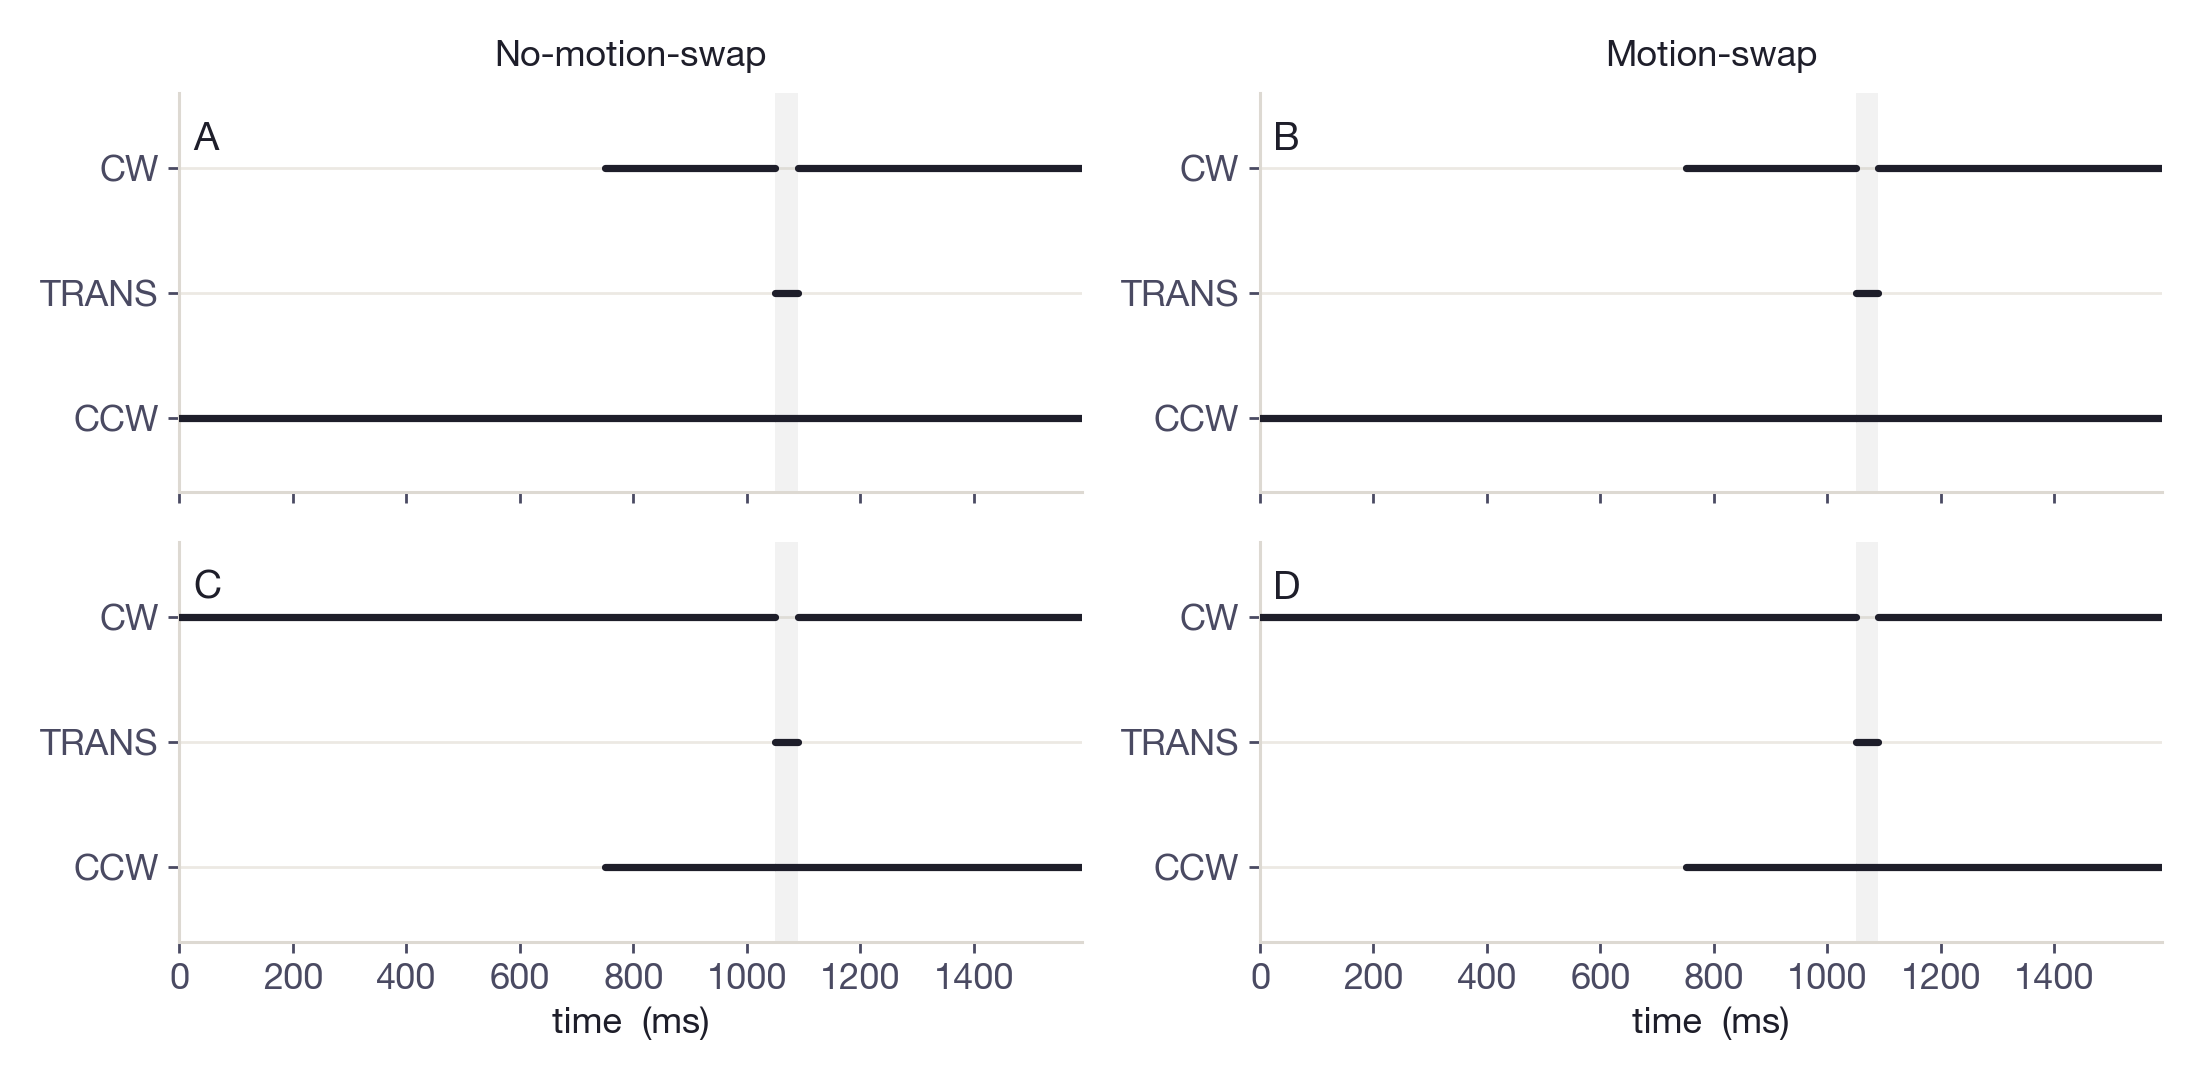
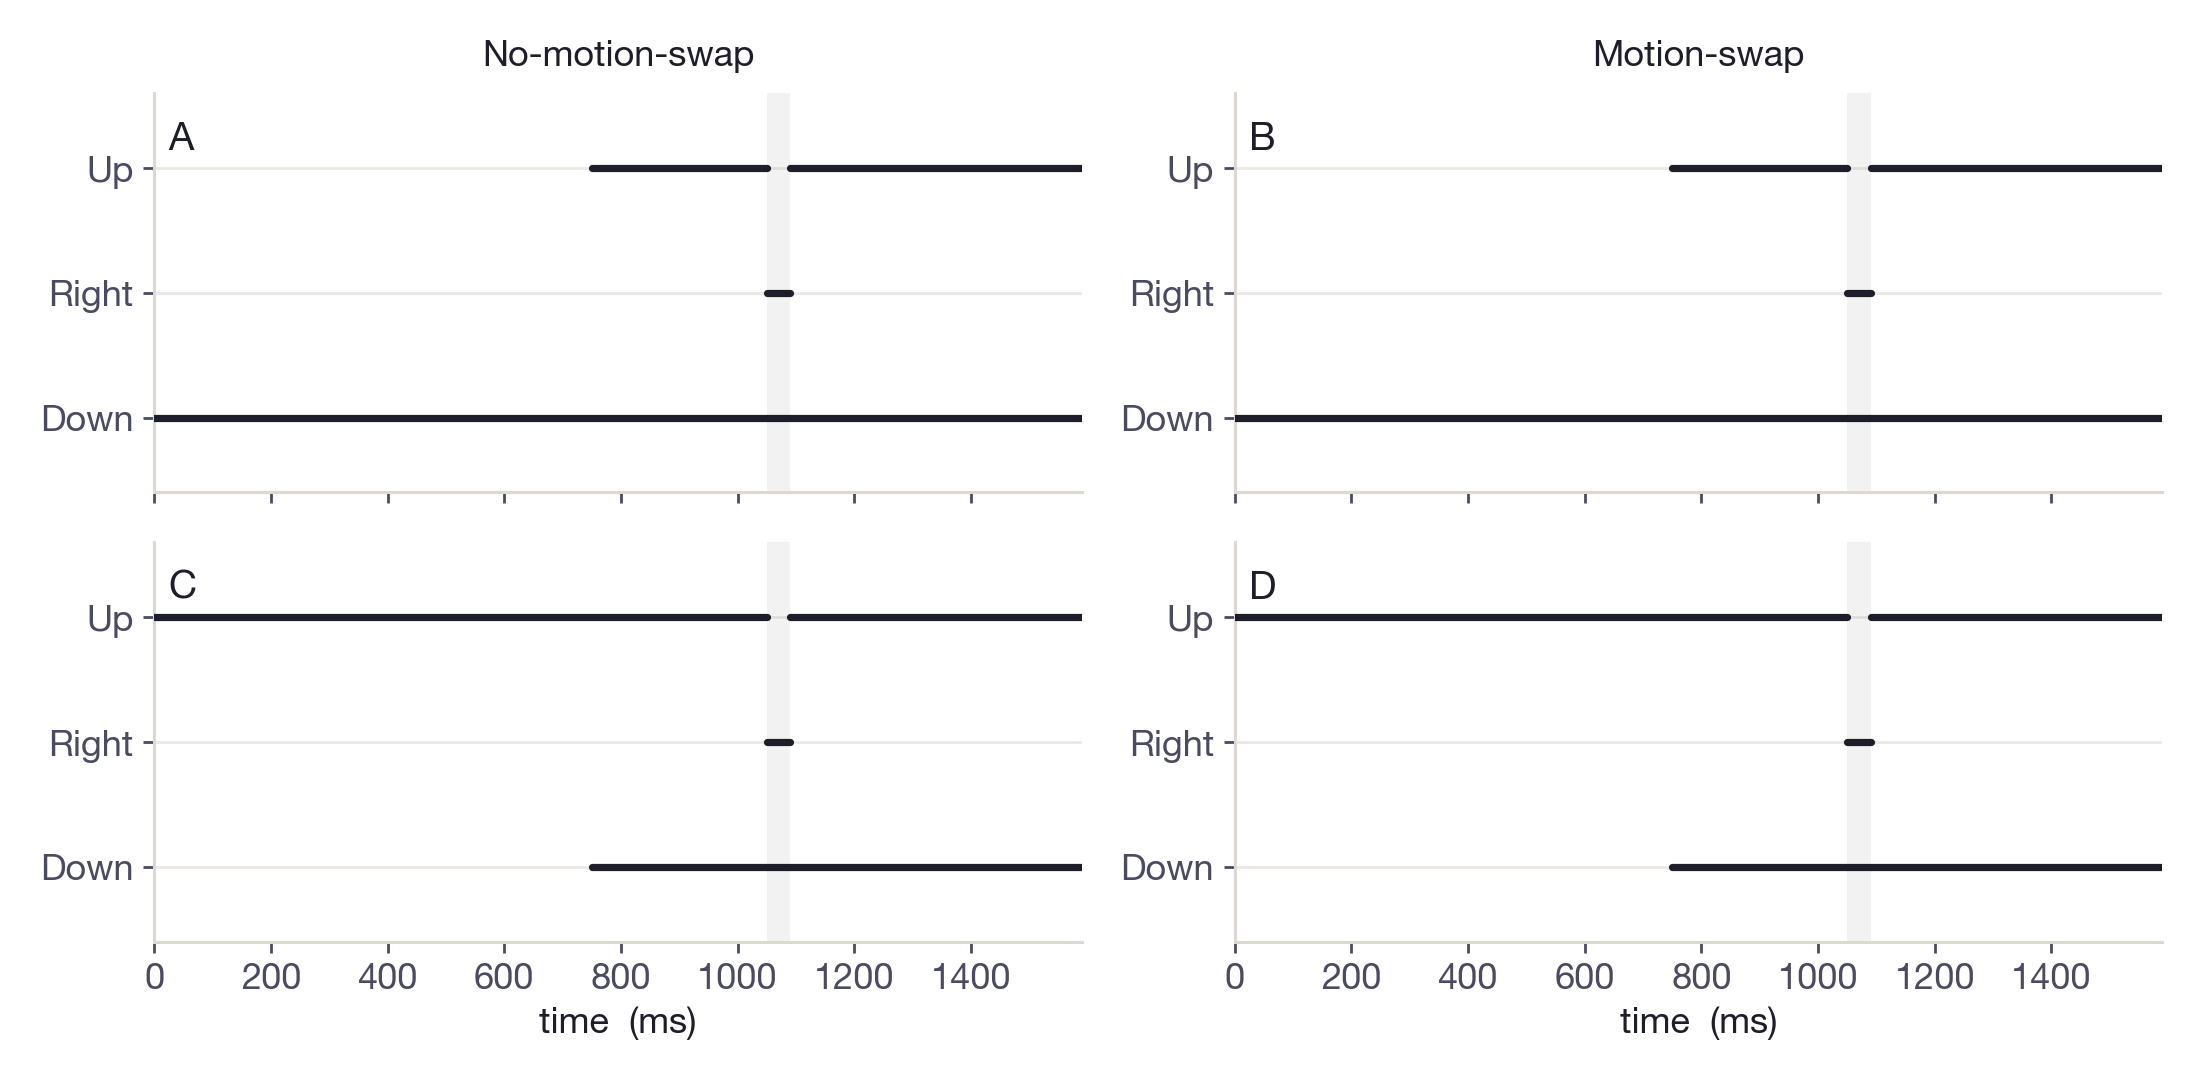
Modeling: single-RF (left) direction labels on the sb4 toggle pair
For an MT hypercolumn whose collective RF sits on the LEFT of the display,
CW rotation is locally upward, CCW downward, and the coherent shift rightward.
Relabel the modeling-page toggle pair rows as Up / Right / Down:
- traj_figure_sb4.py + dirinputs_figure_sb4.py use shared ROW_TICKS/ROW_LABELS
  (defined in web_figures.py).
- _traj_panel / fig_motionswap keep S&B's abstract CW/TRANS/CCW for the
  collaborators-page replication figures (caption names those coordinates).

diff --git a/Agents/Modeling/sb2010/web_figures.py b/Agents/Modeling/sb2010/web_figures.py
@@ -742,6 +742,17 @@ def fig_biased_competition():
 
 CW_, TRANS_, CCW_ = 2, 1, 0
 
+# Single-RF interpretation (modeling-page toggle pair ONLY): an MT hypercolumn
+# whose collective receptive field is positioned on the LEFT of the rotating
+# display.  There, CW rotation is locally UPWARD motion and CCW rotation is
+# locally DOWNWARD motion; the coherent translation is a rightward shift.  These
+# labels are used by traj_figure_sb4.py and dirinputs_figure_sb4.py so that
+# toggle pair stays consistent.  NOT used by _traj_panel / fig_motionswap, which
+# keep S&B's abstract CW/TRANS/CCW coordinates for the replication figures.
+# (Order matches yticks [CCW_, TRANS_, CW_] = bottom -> top.)
+ROW_TICKS = [CCW_, TRANS_, CW_]
+ROW_LABELS = ["Down", "Right", "Up"]
+
 
 def _plot_field(ax, verts, tsplit, c_pre, c_post, ls, lw, z=3):
     """Plot a field's feature trajectory.  When the colour does not change

diff --git a/Agents/Modeling/sb2010/traj_figure_sb4.py b/Agents/Modeling/sb2010/traj_figure_sb4.py
@@ -24,7 +24,7 @@ import matplotlib
 matplotlib.use("Agg")
 import matplotlib.pyplot as plt
 
-from web_figures import _traj_panel, INK, INK2
+from web_figures import _traj_panel, INK, INK2, ROW_TICKS, ROW_LABELS
 
 # (row, col, letter, cue, motion_swap)
 PANELS = [
@@ -41,6 +41,10 @@ def fig_traj_sb4(out="web_model_traj_sb4.png"):
     for row, col, letter, cue, swap in PANELS:
         ax = axes[row, col]
         _traj_panel(ax, cue, motion_swap=swap, color_swap=False)
+        # Single-RF (left) interpretation: relabel rotation/translation rows as
+        # local motion directions, matching the de-identified input figure.
+        ax.set_yticks(ROW_TICKS)
+        ax.set_yticklabels(ROW_LABELS)
         # panel letter, top-left inside the axes
         ax.text(0.015, 0.93, letter, transform=ax.transAxes,
                 fontsize=14, fontweight="bold", color=INK, va="top", ha="left")

diff --git a/Agents/Modeling/sb2010/dirinputs_figure_sb4.py b/Agents/Modeling/sb2010/dirinputs_figure_sb4.py
@@ -22,7 +22,8 @@ import matplotlib
 matplotlib.use("Agg")
 import matplotlib.pyplot as plt
 
-from web_figures import _style_axes, INK, INK2, ACCENT, GRID, WIN
+from web_figures import (_style_axes, INK, INK2, ACCENT, GRID, WIN,
+                         ROW_TICKS, ROW_LABELS)
 from parameters import T_END, T_FIELD2_ON, T_TRANS_START, T_TRANS_END
 
 CW_, TRANS_, CCW_ = 2, 1, 0
@@ -78,8 +79,8 @@ def _panel(ax, cue, motion_swap, letter, col, row):
     ax.axvspan(T_TRANS_START, T_TRANS_END, **WIN)
     ax.set_xlim(0, T_END)
     ax.set_ylim(-0.6, 2.6)
-    ax.set_yticks([CCW_, TRANS_, CW_])
-    ax.set_yticklabels(["CCW", "TRANS", "CW"])
+    ax.set_yticks(ROW_TICKS)
+    ax.set_yticklabels(ROW_LABELS)
 
     # De-identified twin of the trajectory figure: the SAME panels, but every
     # field's motion direction over time drawn as black, solid, horizontal
